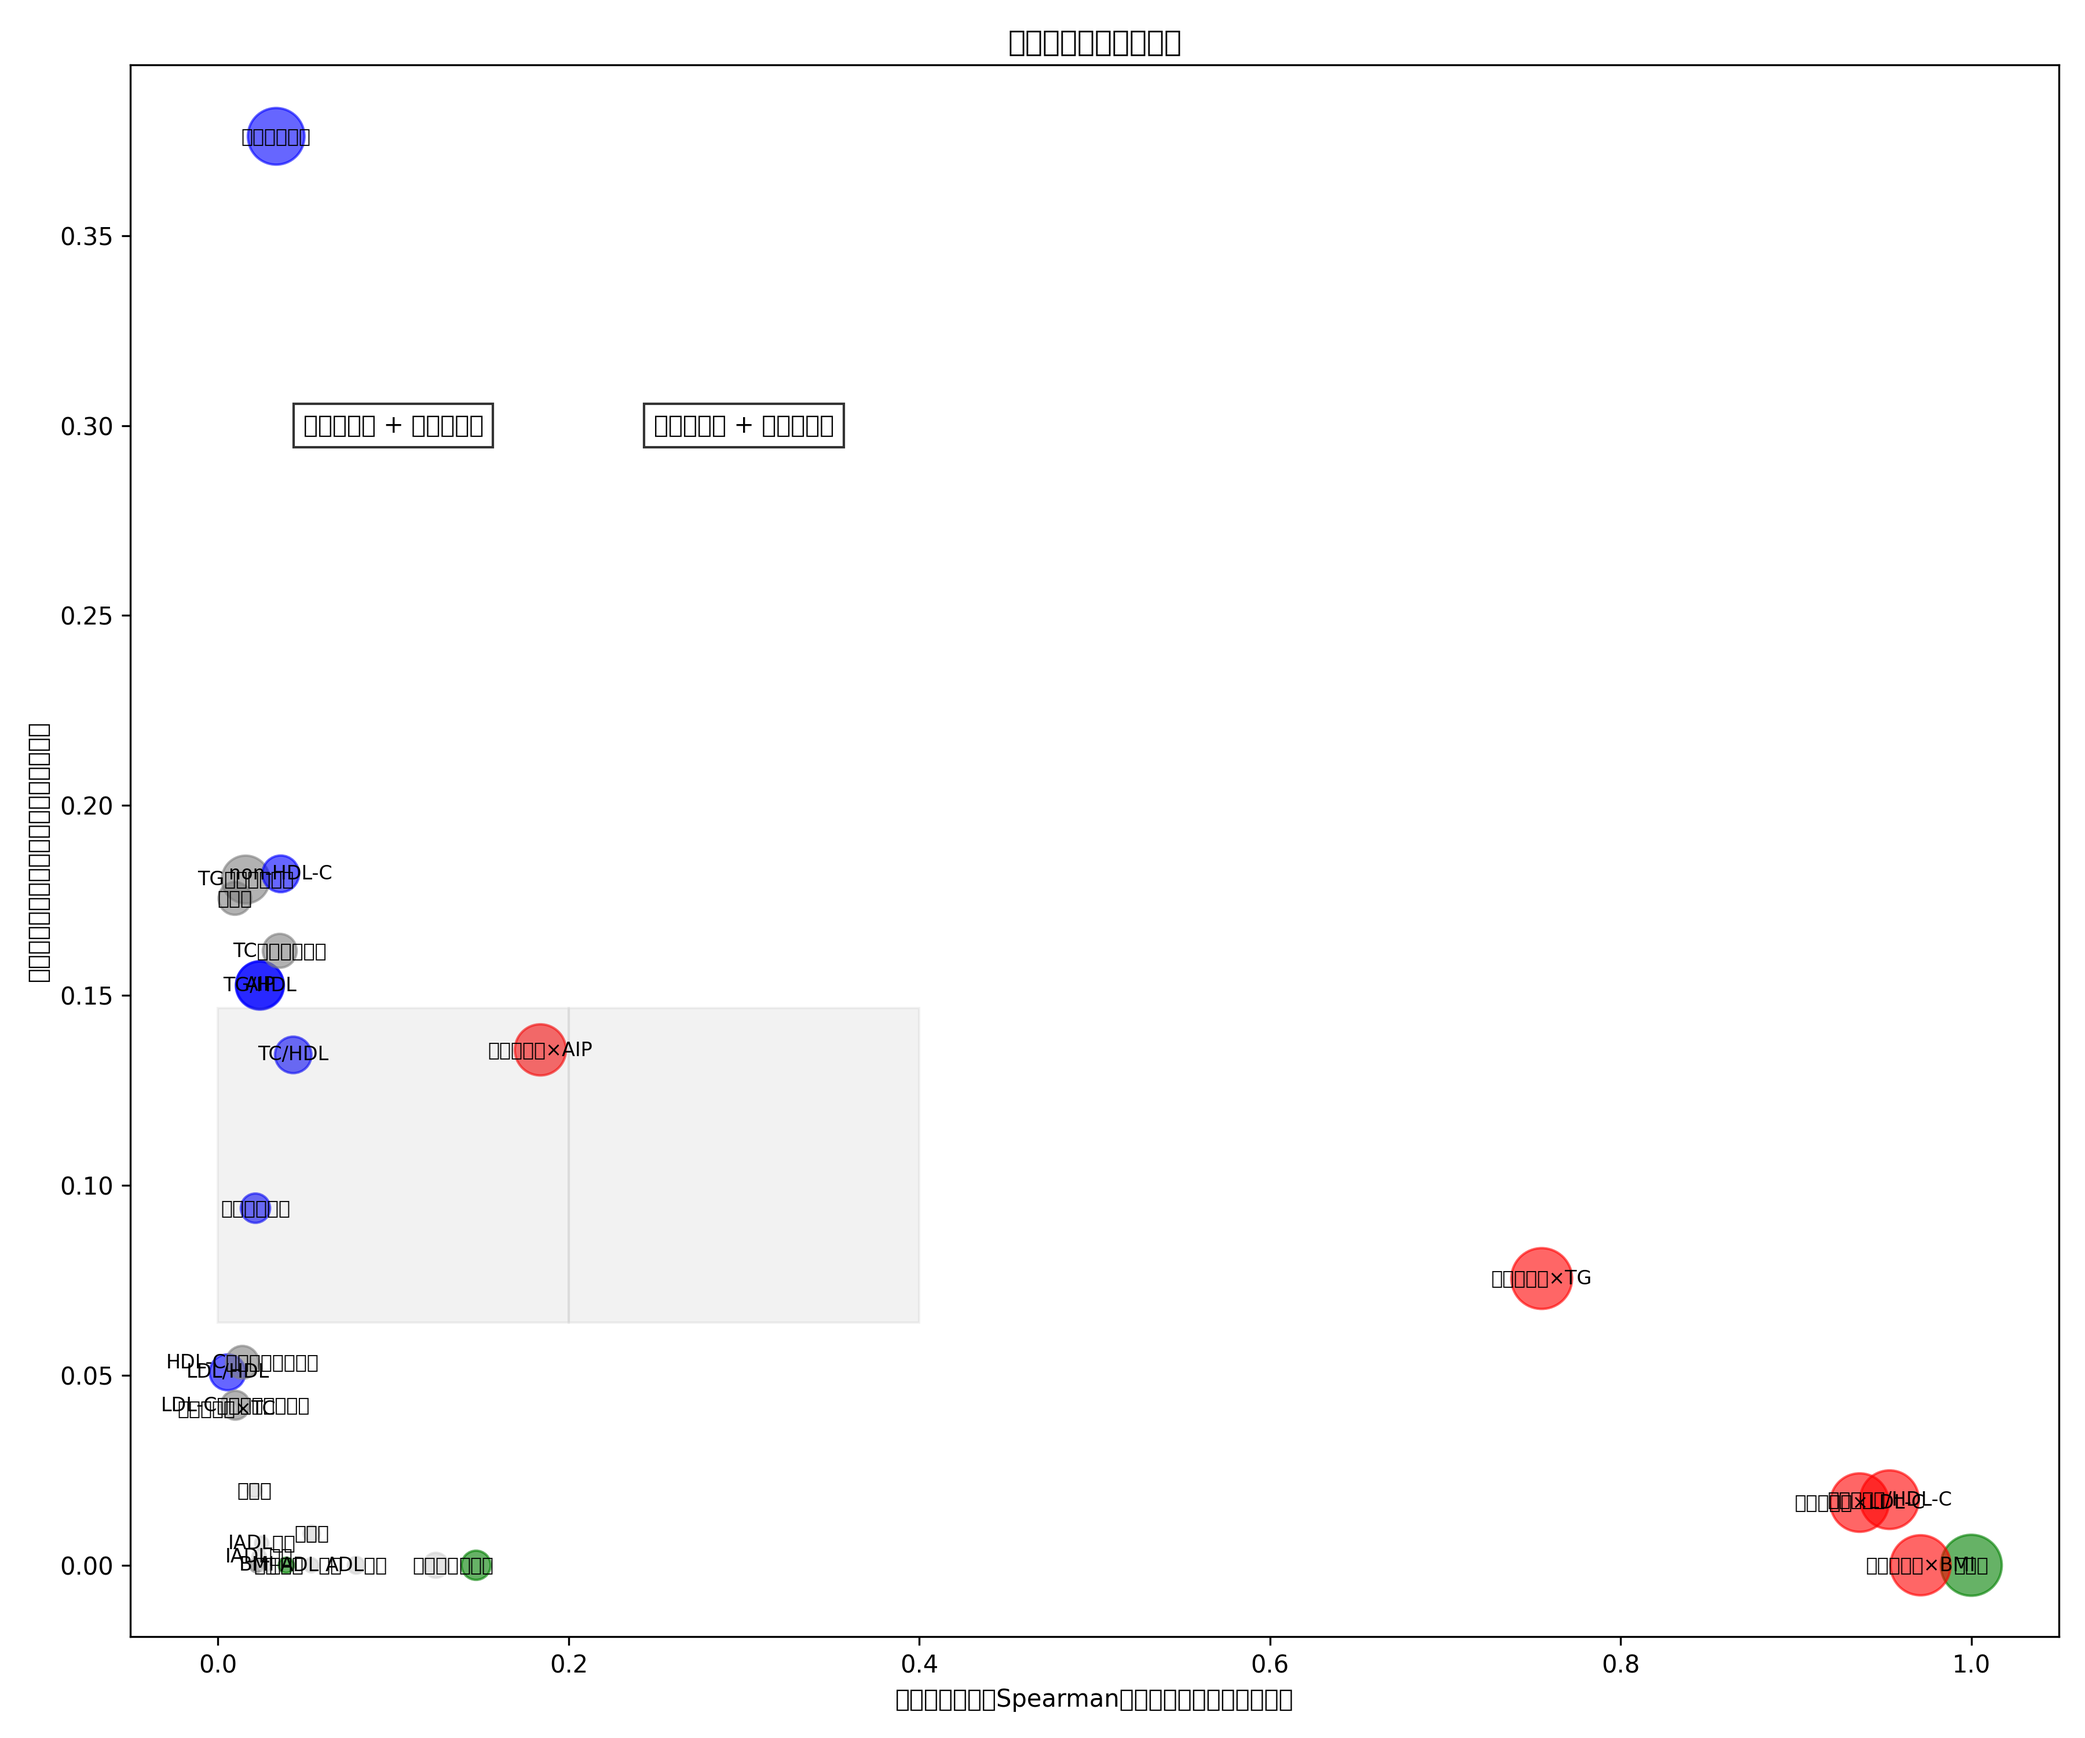
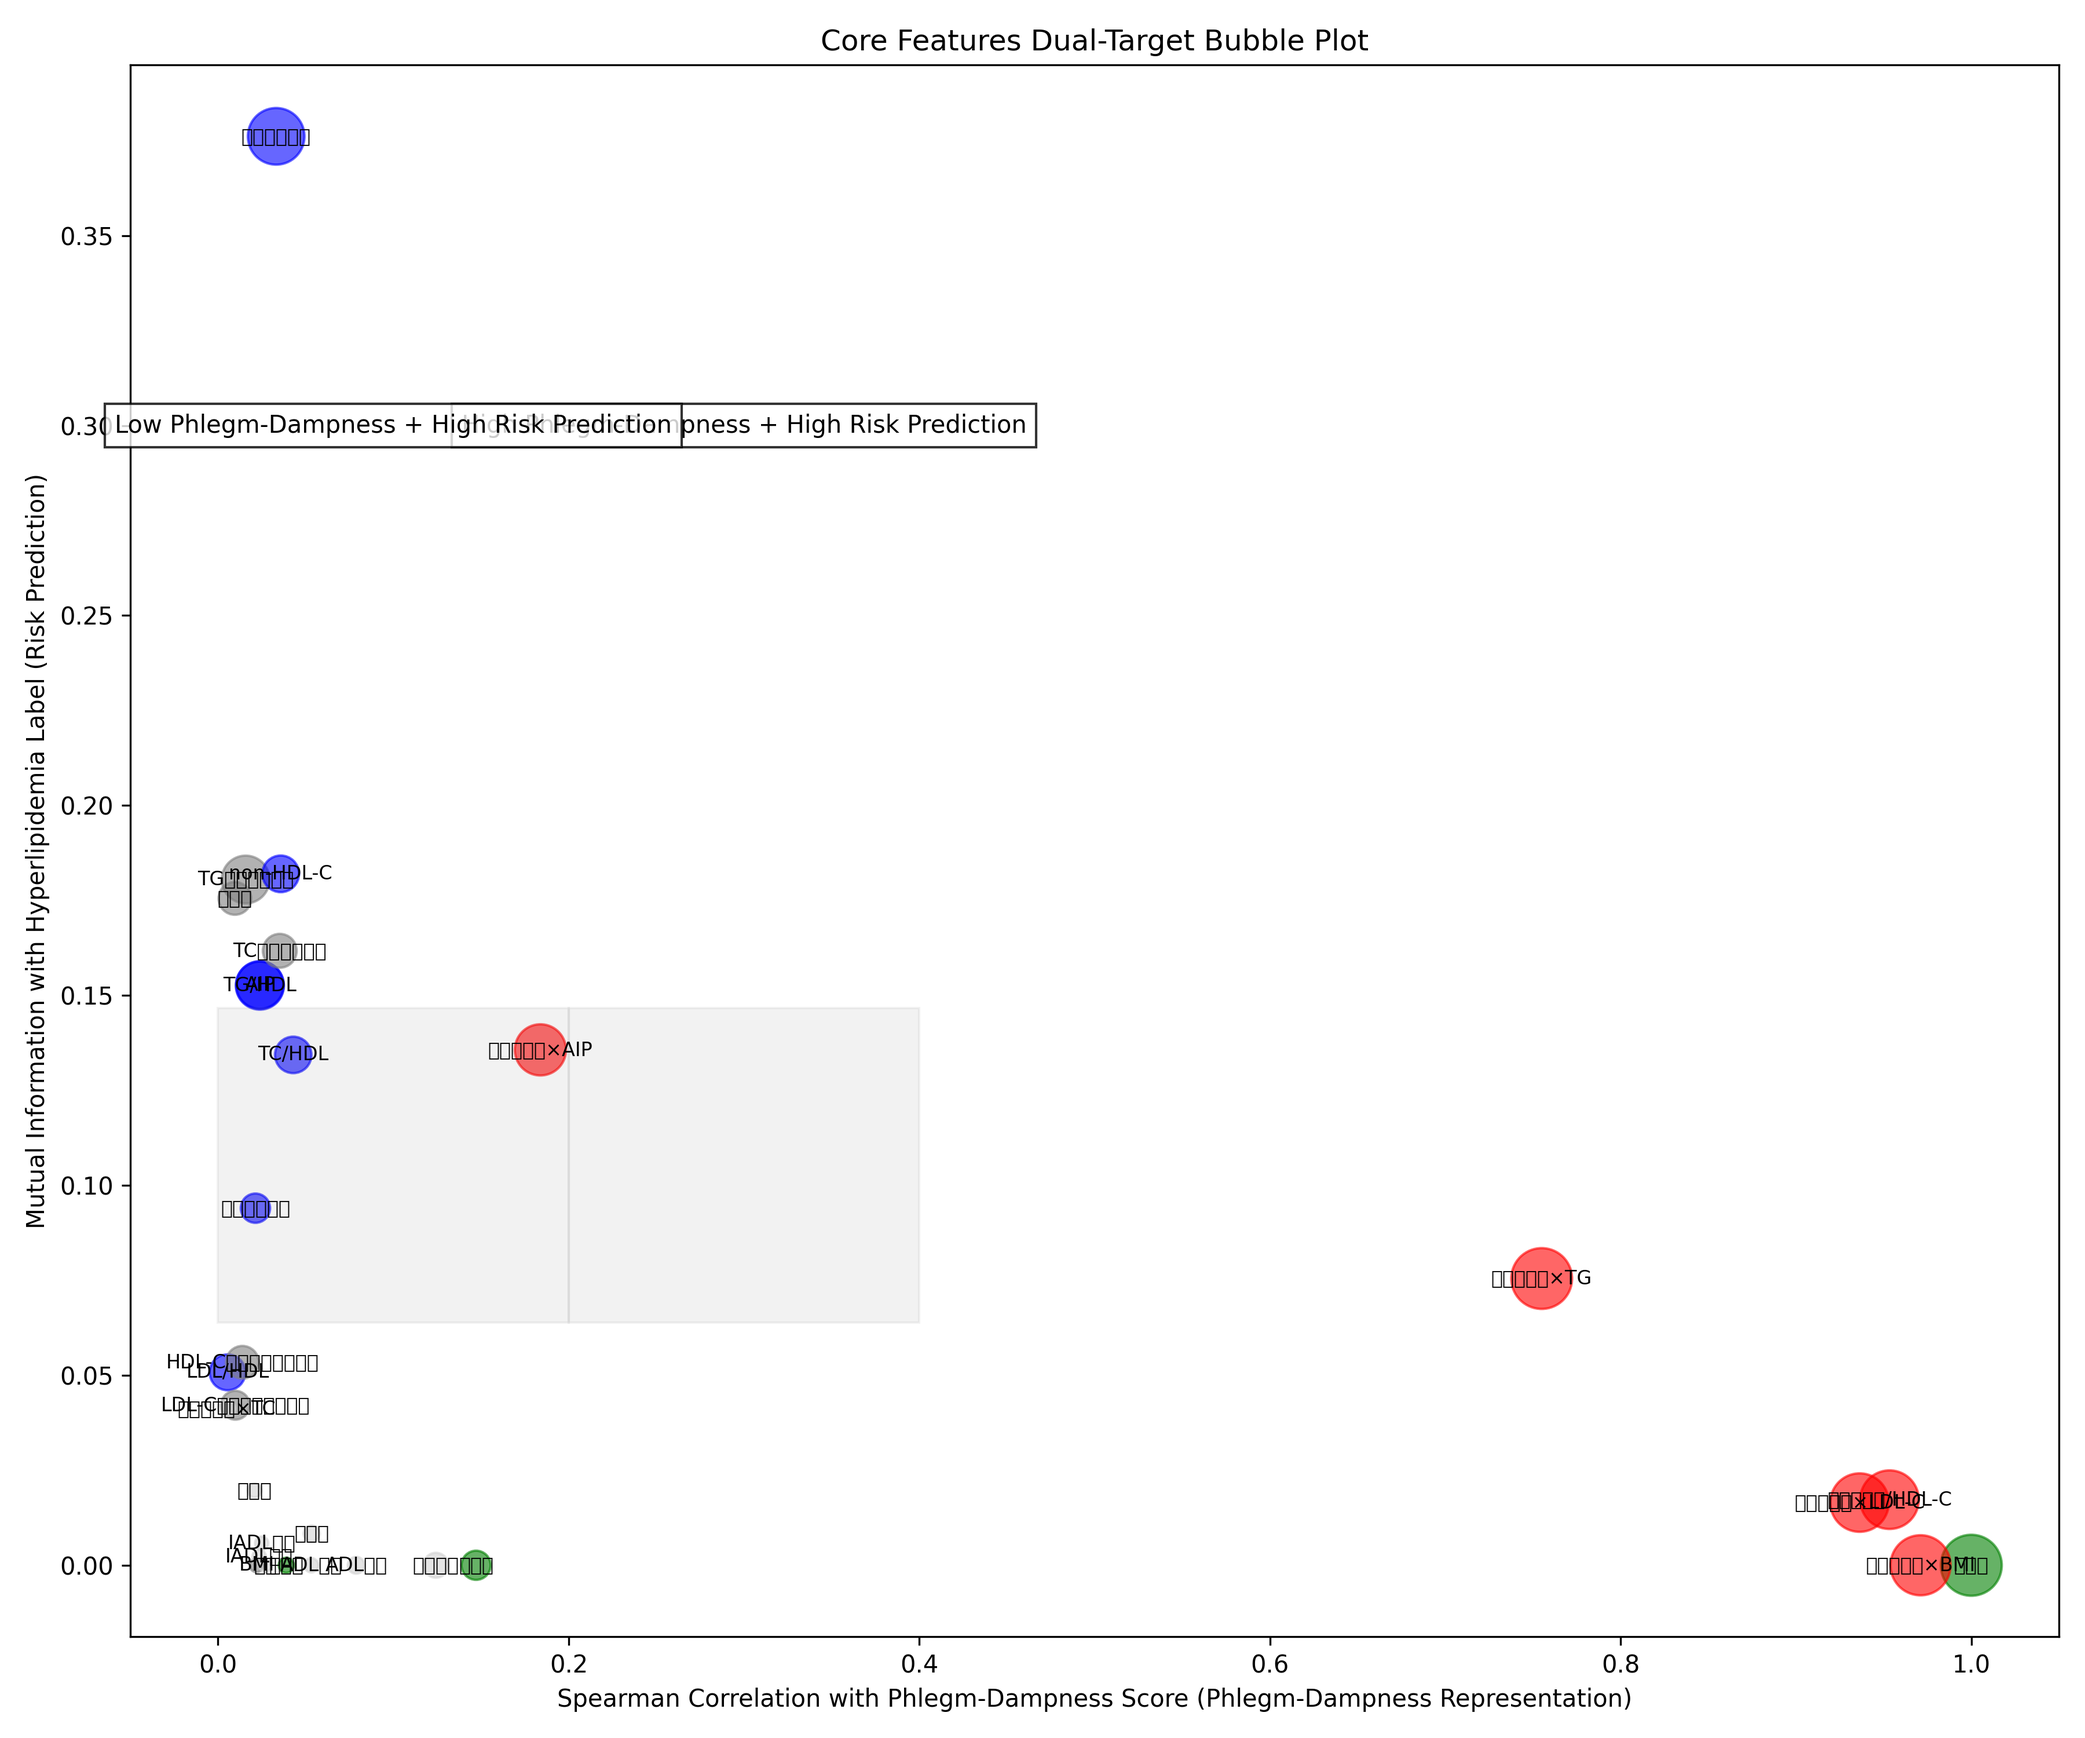
feat: 审查仓库代码

diff --git a/Project_mat/create_figures.py b/Project_mat/create_figures.py
@@ -11,8 +11,8 @@ from sklearn.metrics import roc_auc_score, f1_score, confusion_matrix
 from sklearn.model_selection import train_test_split
 import shap
 
-# 设置中文字体
-plt.rcParams['font.sans-serif'] = ['SimHei']  # 用来正常显示中文标签
+# 设置字体
+plt.rcParams['font.sans-serif'] = ['DejaVu Sans']  # 使用系统可用的字体
 plt.rcParams['axes.unicode_minus'] = False  # 用来正常显示负号
 
 # 加载数据
@@ -152,13 +152,13 @@ top_features = feature_scores.head(20)
 colors = []
 for feature in top_features['feature']:
     if feature in cross_features and '痰湿质' in feature:
-        colors.append('red')  # 痰湿质相关交叉特征
+        colors.append('red')  # Phlegm-Dampness related cross features
     elif feature in derived_features or feature in ['TC（总胆固醇）', 'TG（甘油三酯）', 'LDL-C（低密度脂蛋白）', 'HDL-C（高密度脂蛋白）', '空腹血糖', '血尿酸', 'BMI']:
-        colors.append('blue')  # 西医单一/派生特征
+        colors.append('blue')  # Western medicine single/derived features
     elif feature in constitution_types:
-        colors.append('gray')  # 其他中医单一特征
+        colors.append('gray')  # Other TCM single features
     else:
-        colors.append('lightgray')  # 其他特征
+        colors.append('lightgray')  # Other features
 
 # 绘制横向条形图
 bars = plt.barh(top_features['feature'], top_features['total_score'], color=colors)
@@ -169,11 +169,11 @@ for i, (_, row) in enumerate(top_features.iterrows()):
 
 # 用虚线框出前5个交叉特征
 plt.gca().add_patch(plt.Rectangle((0, 4.5), top_features['total_score'].iloc[0] + 0.05, 5, fill=False, edgecolor='black', linestyle='--', linewidth=1))
-plt.text(top_features['total_score'].iloc[0] + 0.06, 2, "中西医融合特征包揽前 5 名", va='center')
+plt.text(top_features['total_score'].iloc[0] + 0.06, 2, "Integrated features rank top 5", va='center')
 
-plt.xlabel('综合评分')
-plt.ylabel('特征')
-plt.title('双目标综合评分对比图')
+plt.xlabel('Total Score')
+plt.ylabel('Features')
+plt.title('Dual-Target Comprehensive Score Comparison')
 plt.tight_layout()
 plt.savefig('figure1.png', dpi=300)
 plt.close()
@@ -240,7 +240,7 @@ width = 0.35
 x = np.arange(9)
 
 plt.subplot(1, 2, 1)
-plt.bar(x - width/2, relative_risks_all, width, label='全体样本 (n=1000)')
+plt.bar(x - width/2, relative_risks_all, width, label='All Samples (n=1000)')
 # 添加误差棒
 for i in range(9):
     if relative_risks_all[i] > 0:
@@ -248,12 +248,12 @@ for i in range(9):
         plt.errorbar(x[i] - width/2, relative_risks_all[i], yerr=[[relative_risks_all[i] - ci[0]], [ci[1] - relative_risks_all[i]]], fmt='none', capsize=5, color='black')
 plt.axhline(y=1.0, color='red', linestyle='--')
 plt.xticks(x, [type_map[i+1] for i in range(9)], rotation=45, ha='right')
-plt.ylabel('相对风险 (RR)')
-plt.title('全体样本')
+plt.ylabel('Relative Risk (RR)')
+plt.title('All Samples')
 plt.ylim(0, 2)
 
 plt.subplot(1, 2, 2)
-bars = plt.bar(x + width/2, relative_risks_normal, width, label='血脂正常人群 (n=207)')
+bars = plt.bar(x + width/2, relative_risks_normal, width, label='Normal Lipid Group (n=207)')
 # 添加误差棒
 for i in range(9):
     if relative_risks_normal[i] > 0:
@@ -264,15 +264,15 @@ for i in range(9):
             plt.text(x[i] + width/2, relative_risks_normal[i] + 0.1, f"p<0.05", ha='center')
 
 # 标注痰湿质的RR值
-phlegm_idx = 4  # 痰湿质是第5个体质（索引4）
+phlegm_idx = 4  # Phlegm-Dampness is the 5th constitution (index 4)
 plt.text(x[phlegm_idx] + width/2, relative_risks_normal[phlegm_idx] + 0.15, f"RR=1.87, p=0.032", ha='center')
 plt.arrow(x[phlegm_idx] + width/2, relative_risks_normal[phlegm_idx] + 0.25, 0, 0.3, head_width=0.1, head_length=0.1, fc='black', ec='black')
-plt.text(x[phlegm_idx] + width/2, relative_risks_normal[phlegm_idx] + 0.6, "血脂正常人群中痰湿质风险升高 87%", ha='center')
+plt.text(x[phlegm_idx] + width/2, relative_risks_normal[phlegm_idx] + 0.6, "Phlegm-Dampness risk increased by 87% in normal lipid group", ha='center')
 
 plt.axhline(y=1.0, color='red', linestyle='--')
 plt.xticks(x, [type_map[i+1] for i in range(9)], rotation=45, ha='right')
-plt.ylabel('相对风险 (RR)')
-plt.title('血脂正常人群')
+plt.ylabel('Relative Risk (RR)')
+plt.title('Normal Lipid Group')
 plt.ylim(0, 2.5)
 
 plt.tight_layout()
@@ -342,9 +342,9 @@ for i, (feature, coef) in enumerate(constitution_coefficients_sorted):
 plt.axvline(x=0, color='gray', linestyle='--')
 
 plt.yticks(np.arange(len(constitution_coefficients_sorted)), [item[0] for item in constitution_coefficients_sorted])
-plt.xlabel('标准化Logistic回归系数')
-plt.ylabel('体质类型')
-plt.title('体质贡献度森林图')
+plt.xlabel('Standardized Logistic Regression Coefficient')
+plt.ylabel('Constitution Type')
+plt.title('Constitution Contribution Forest Plot')
 plt.tight_layout()
 plt.savefig('figure3.png', dpi=300)
 plt.close()
@@ -352,11 +352,11 @@ plt.close()
 # 图 4：痰湿质 ×AIP 交互效应热力图
 print("生成图 4：痰湿质 ×AIP 交互效应热力图")
 # 计算四分位数
-df['痰湿质四分位'] = pd.qcut(df['痰湿质'], 4, labels=['Q1', 'Q2', 'Q3', 'Q4'])
-df['AIP四分位'] = pd.qcut(df['AIP'], 4, labels=['Q1', 'Q2', 'Q3', 'Q4'])
+df['Phlegm-Dampness Quartile'] = pd.qcut(df['痰湿质'], 4, labels=['Q1', 'Q2', 'Q3', 'Q4'])
+df['AIP Quartile'] = pd.qcut(df['AIP'], 4, labels=['Q1', 'Q2', 'Q3', 'Q4'])
 
 # 计算每个格子的患病率
-heatmap_data = df.groupby(['痰湿质四分位', 'AIP四分位'])[target].mean().unstack()
+heatmap_data = df.groupby(['Phlegm-Dampness Quartile', 'AIP Quartile'])[target].mean().unstack()
 
 plt.figure(figsize=(10, 8))
 sns.heatmap(heatmap_data, annot=True, fmt='.1%', cmap='YlOrRd', vmin=0, vmax=1)
@@ -367,9 +367,9 @@ min_val = heatmap_data.min().min()
 max_idx = np.where(heatmap_data == max_val)
 min_idx = np.where(heatmap_data == min_val)
 
-plt.title('痰湿质 ×AIP 交互效应热力图')
-plt.xlabel('AIP 四分位数')
-plt.ylabel('痰湿质积分四分位数')
+plt.title('Phlegm-Dampness × AIP Interaction Heatmap')
+plt.xlabel('AIP Quartile')
+plt.ylabel('Phlegm-Dampness Score Quartile')
 plt.tight_layout()
 plt.savefig('figure4.png', dpi=300)
 plt.close()
@@ -385,15 +385,15 @@ plt.figure(figsize=(12, 10))
 colors = []
 for feature in selected_features['feature']:
     if feature in cross_features and '痰湿质' in feature:
-        colors.append('red')  # 痰湿质交叉特征
+        colors.append('red')  # Phlegm-Dampness cross features
     elif feature in derived_features:
-        colors.append('blue')  # 西医派生特征
+        colors.append('blue')  # Western medicine derived features
     elif feature in constitution_types:
-        colors.append('green')  # 中医单一特征
+        colors.append('green')  # TCM single features
     elif feature in ['TC（总胆固醇）', 'TG（甘油三酯）', 'LDL-C（低密度脂蛋白）', 'HDL-C（高密度脂蛋白）', '空腹血糖', '血尿酸', 'BMI']:
-        colors.append('gray')  # 西医单一特征
+        colors.append('gray')  # Western medicine single features
     else:
-        colors.append('lightgray')  # 其他特征
+        colors.append('lightgray')  # Other features
 
 # 绘制气泡图
 bubbles = plt.scatter(selected_features['spearman_score'], selected_features['mutual_info_score'], 
@@ -406,14 +406,14 @@ for i, (_, row) in enumerate(selected_features.iterrows()):
 
 # 标注区域
 plt.axvspan(0.2, 0.4, 0.2, 0.4, alpha=0.1, color='gray')
-plt.text(0.3, 0.3, '高痰湿表征 + 高风险预警', ha='center', va='center', fontsize=10, bbox=dict(facecolor='white', alpha=0.8))
+plt.text(0.3, 0.3, 'High Phlegm-Dampness + High Risk Prediction', ha='center', va='center', fontsize=10, bbox=dict(facecolor='white', alpha=0.8))
 
 plt.axvspan(0, 0.2, 0.2, 0.4, alpha=0.1, color='gray')
-plt.text(0.1, 0.3, '低痰湿表征 + 高风险预警', ha='center', va='center', fontsize=10, bbox=dict(facecolor='white', alpha=0.8))
+plt.text(0.1, 0.3, 'Low Phlegm-Dampness + High Risk Prediction', ha='center', va='center', fontsize=10, bbox=dict(facecolor='white', alpha=0.8))
 
-plt.xlabel('与痰湿质积分的Spearman相关系数（痰湿表征能力）')
-plt.ylabel('与高血脂标签的互信息（风险预警能力）')
-plt.title('核心特征双目标气泡图')
+plt.xlabel('Spearman Correlation with Phlegm-Dampness Score (Phlegm-Dampness Representation)')
+plt.ylabel('Mutual Information with Hyperlipidemia Label (Risk Prediction)')
+plt.title('Core Features Dual-Target Bubble Plot')
 plt.tight_layout()
 plt.savefig('figure5.png', dpi=300)
 plt.close()
@@ -454,9 +454,9 @@ top10_shap = feature_importance_shap.tail(10)
 
 plt.figure(figsize=(12, 8))
 plt.barh(top10_shap['feature'], top10_shap['importance'])
-plt.xlabel('SHAP值')
-plt.ylabel('特征')
-plt.title('血脂正常人群 SHAP 特征重要性图')
+plt.xlabel('SHAP Value')
+plt.ylabel('Features')
+plt.title('SHAP Feature Importance in Normal Lipid Group')
 plt.tight_layout()
 plt.savefig('figure6.png', dpi=300)
 plt.close()
@@ -464,9 +464,9 @@ plt.close()
 # 图 7：不同特征集模型性能对比图
 print("生成图 7：不同特征集模型性能对比图")
 # 定义三个特征集
-feature_set1 = ['TC（总胆固醇）', 'TG（甘油三酯）', 'LDL-C（低密度脂蛋白）', 'HDL-C（高密度脂蛋白）', '空腹血糖', '血尿酸', 'BMI']  # 仅西医单一特征
-feature_set2 = feature_set1 + derived_features  # 西医单一 + 派生特征
-feature_set3 = feature_set2 + constitution_types + cross_features  # 西医 + 中医 + 交叉特征
+feature_set1 = ['TC（总胆固醇）', 'TG（甘油三酯）', 'LDL-C（低密度脂蛋白）', 'HDL-C（高密度脂蛋白）', '空腹血糖', '血尿酸', 'BMI']  # Only Western medicine single features
+feature_set2 = feature_set1 + derived_features  # Western medicine single + derived features
+feature_set3 = feature_set2 + constitution_types + cross_features  # Western + TCM + cross features
 
 # 准备数据
 X1 = df[feature_set1]
@@ -533,11 +533,11 @@ for i, (auc, f1) in enumerate(zip([auc1, auc2, auc3], [f1_1, f1_2, f1_3])):
     plt.text(x[i] + width/2, f1 + 0.01, f"{f1:.4f}", ha='center')
 
 # 标注提升
-plt.text(2, max(auc3, f1_3) + 0.02, f"加入交叉特征后，AUC 提升 {auc3 - auc2:.4f}，Macro-F1 提升 {f1_3 - f1_2:.4f}", ha='center')
+plt.text(2, max(auc3, f1_3) + 0.02, f"After adding cross features, AUC increased by {auc3 - auc2:.4f}, Macro-F1 increased by {f1_3 - f1_2:.4f}", ha='center')
 
-plt.xticks(x, ['仅西医单一特征', '西医单一+派生特征', '西医+中医+交叉特征'])
-plt.ylabel('性能指标')
-plt.title('不同特征集模型性能对比图')
+plt.xticks(x, ['Only Western Medicine', 'Western + Derived', 'Western + TCM + Cross'])
+plt.ylabel('Performance Metrics')
+plt.title('Model Performance Comparison of Different Feature Sets')
 plt.legend()
 plt.tight_layout()
 plt.savefig('figure7.png', dpi=300)
